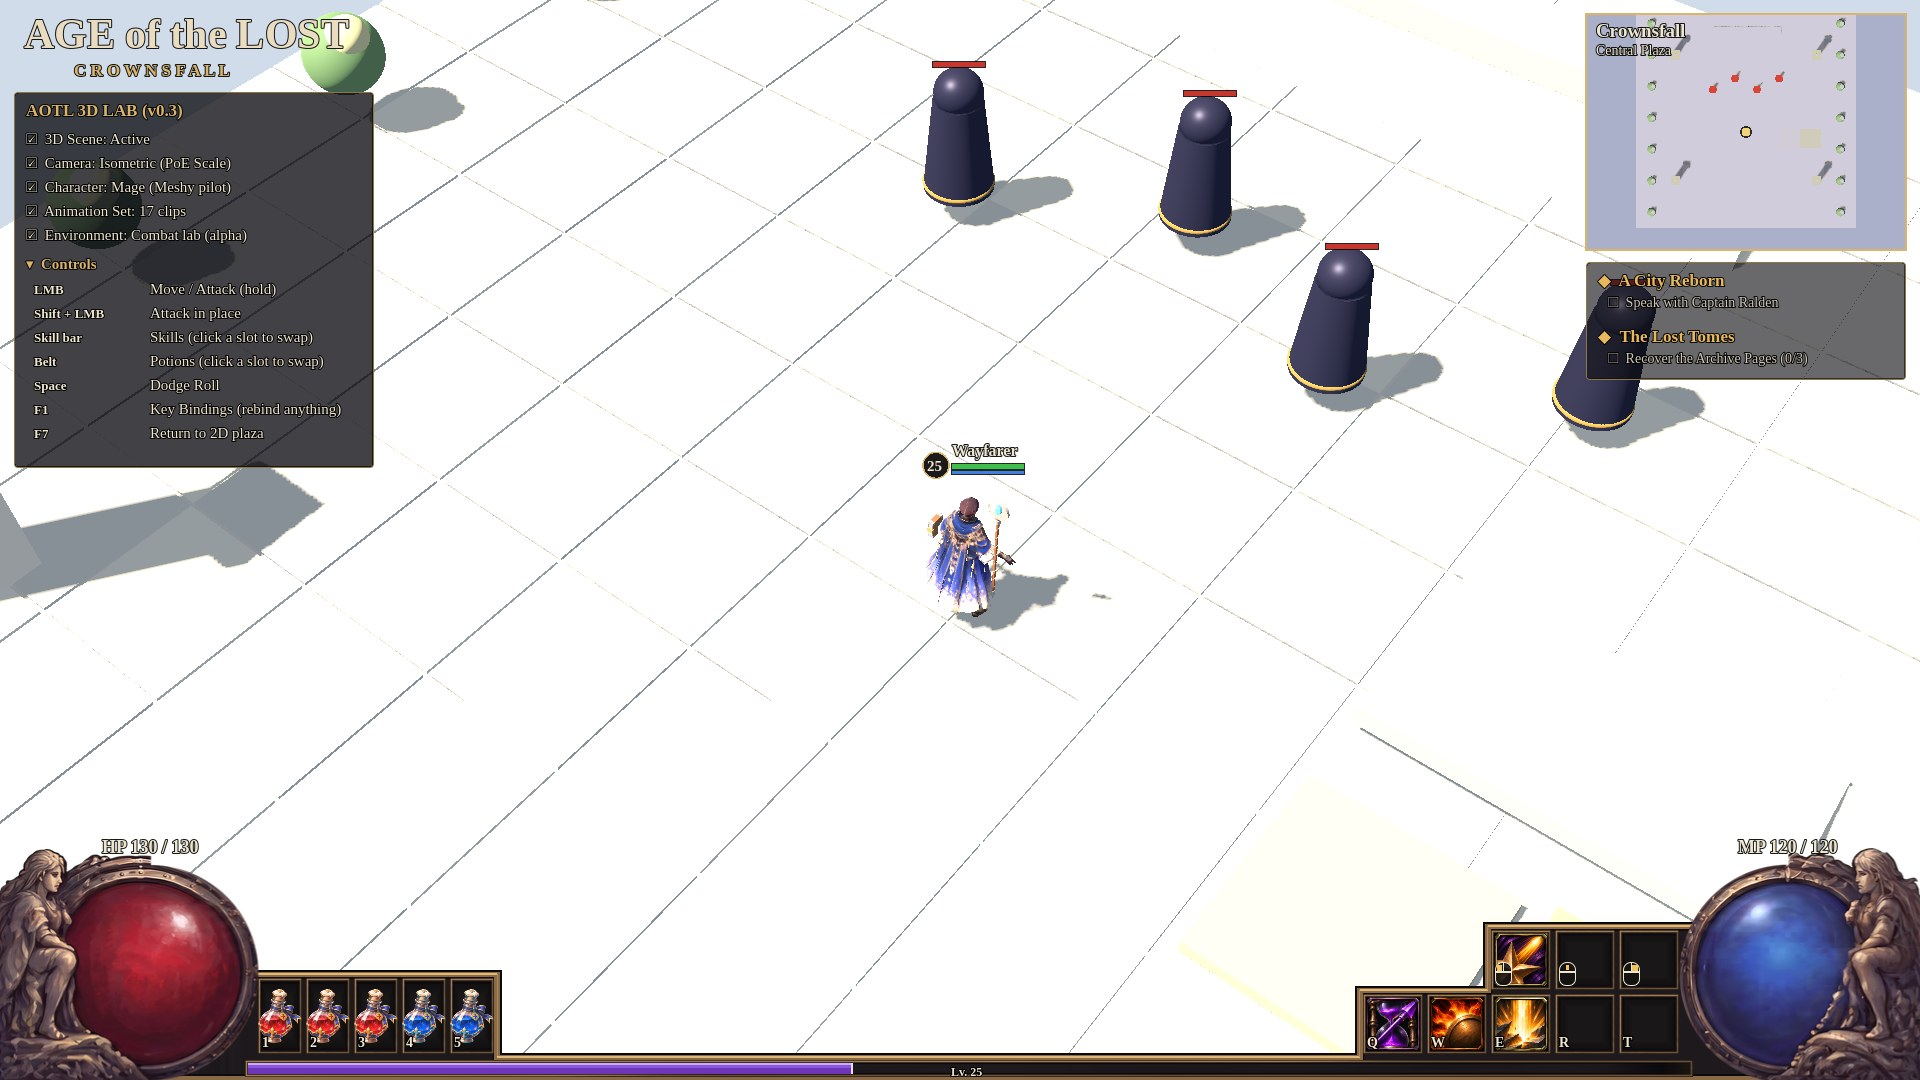
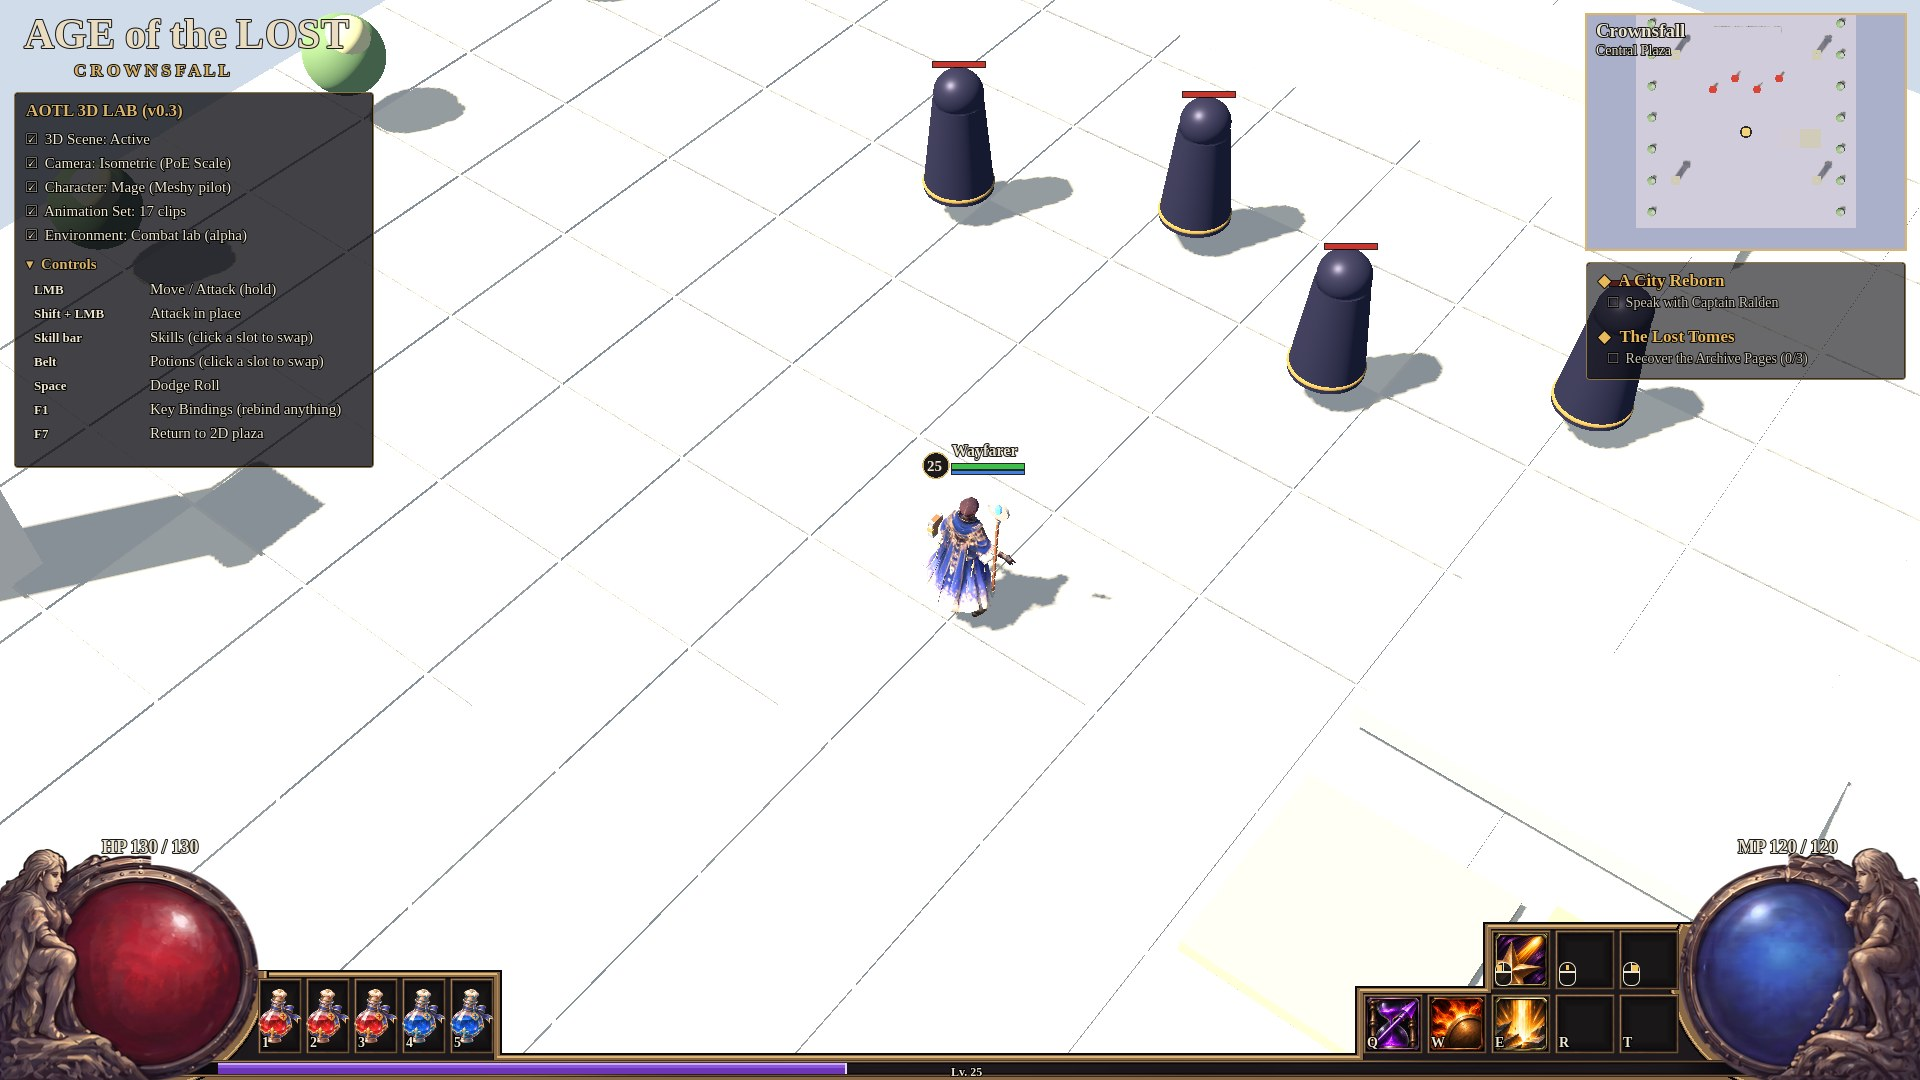
ARPG HUD: ring collars close the gap between frame and globes; XP from ring to ring
Claude-Session: https://claude.ai/code/session_01HXUneWBipxvB69FSMXEcEC

Changed region(s): [[0.0938, 0.9167, 0.1562, 1.0], [0.875, 0.9472, 0.9062, 1.0]]

diff --git a/game/crownsfall_lootslice/docs/ARPG_HUD_QA_2026-11-20.md b/game/crownsfall_lootslice/docs/ARPG_HUD_QA_2026-11-20.md
@@ -152,3 +152,6 @@ squares; not "cheap and AI made with wavy lines".
   tucked under both globe rings (no gaps); the XP bar is set into the rail from ring to ring.
 - HP / MP values above their globes; LMB / MMB / RMB slots show a mouse symbol with the bound button lit.
 - Still free / placeholder corner art; no credits spent. Tests: arpg_hud 76/76; regression 994/994.
+
+## Revision 14 — no dead wedge at the globes
+- Bronze collars now hug each globe ring where the frame meets it, and the XP fill starts at each ring edge.
